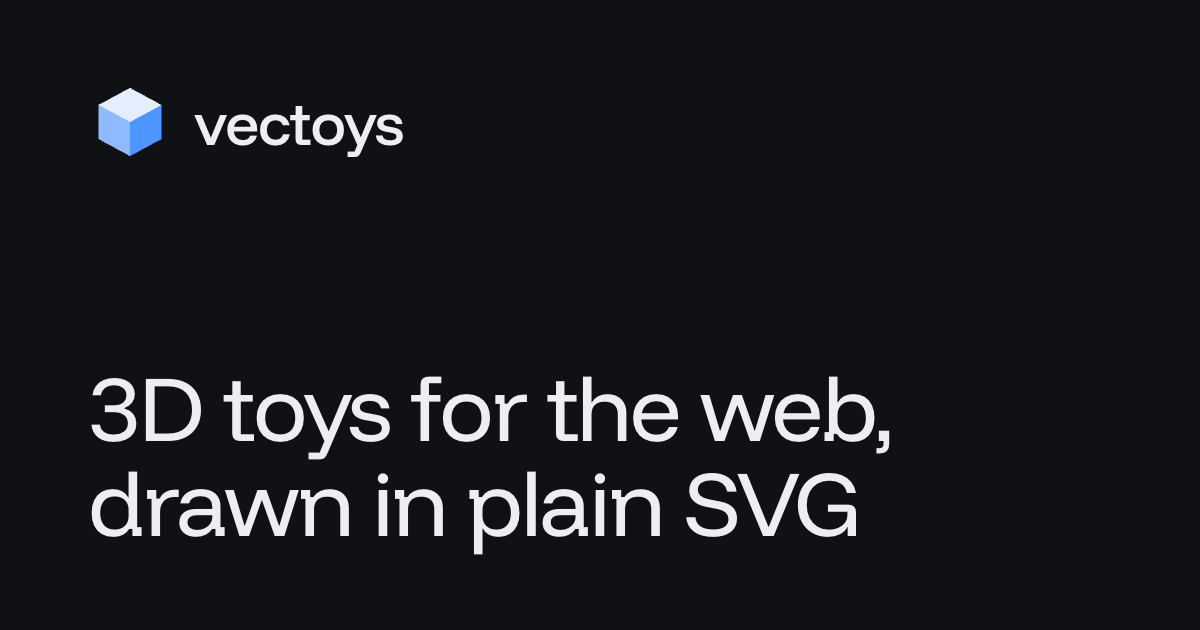
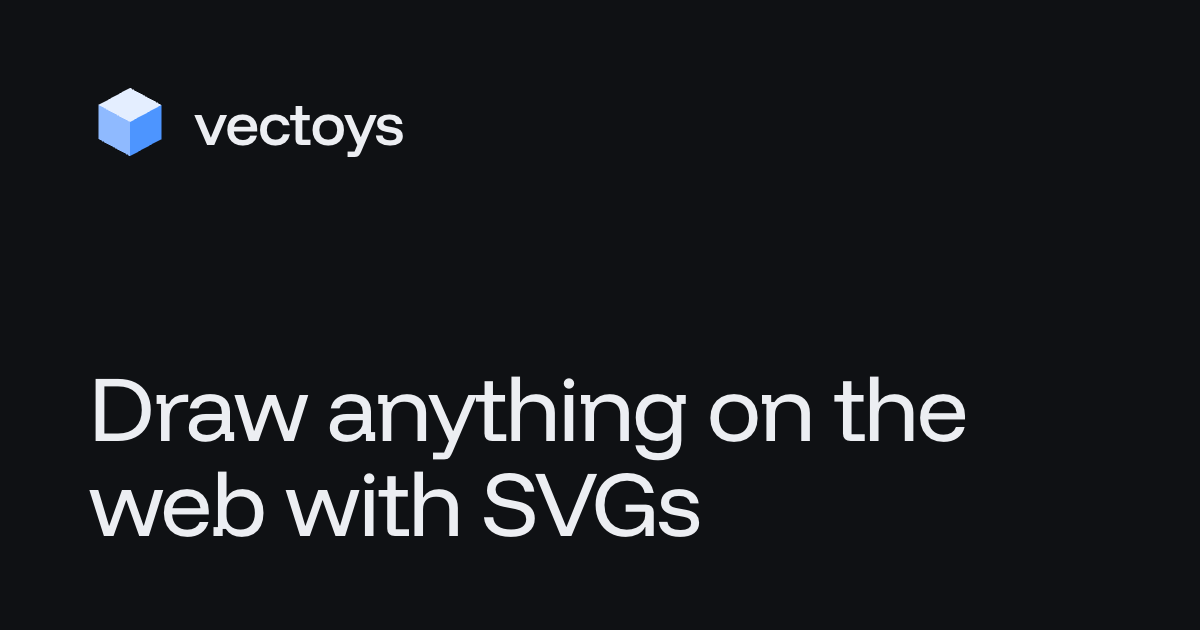
Share image and descriptions carry the new headline

Changed region(s): [[0.0617, 0.573, 0.8017, 0.8746]]

diff --git a/apps/site/index.html b/apps/site/index.html
@@ -12,15 +12,15 @@
     <meta property="og:site_name" content="vectoys" />
     <meta property="og:url" content="https://vectoys.com/" />
     <meta property="og:title" content="vectoys" />
-    <meta property="og:description" content="3D toys for the web, drawn in plain SVG. Device mockups with live HTML on their screens, copied into your project with one command." />
+    <meta property="og:description" content="Phones, laptops and small toys for your React landing page, drawn in plain SVG. The screen is live HTML you can scroll and select. No WebGL, no images, MIT." />
     <meta property="og:image" content="https://vectoys.com/og.png" />
     <meta property="og:image:width" content="1200" />
     <meta property="og:image:height" content="630" />
-    <meta property="og:image:alt" content="The vectoys mark and the line: 3D toys for the web, drawn in plain SVG" />
+    <meta property="og:image:alt" content="The vectoys mark and the line: Draw anything on the web with SVGs" />
     <meta name="twitter:card" content="summary_large_image" />
     <meta name="twitter:image" content="https://vectoys.com/og.png" />
     <meta name="twitter:title" content="vectoys" />
-    <meta name="twitter:description" content="3D toys for the web, drawn in plain SVG. Device mockups with live HTML on their screens, copied into your project with one command." />
+    <meta name="twitter:description" content="Phones, laptops and small toys for your React landing page, drawn in plain SVG. The screen is live HTML you can scroll and select. No WebGL, no images, MIT." />
     <link rel="preconnect" href="https://fonts.googleapis.com" />
     <link rel="preconnect" href="https://fonts.gstatic.com" crossorigin />
     <link

diff --git a/apps/site/scripts/og-image.html b/apps/site/scripts/og-image.html
@@ -60,7 +60,7 @@
         </svg>
         vectoys
       </div>
-      <h1>3D toys for the web, drawn in plain SVG</h1>
+      <h1>Draw anything on the web with SVGs</h1>
     </main>
   </body>
 </html>
